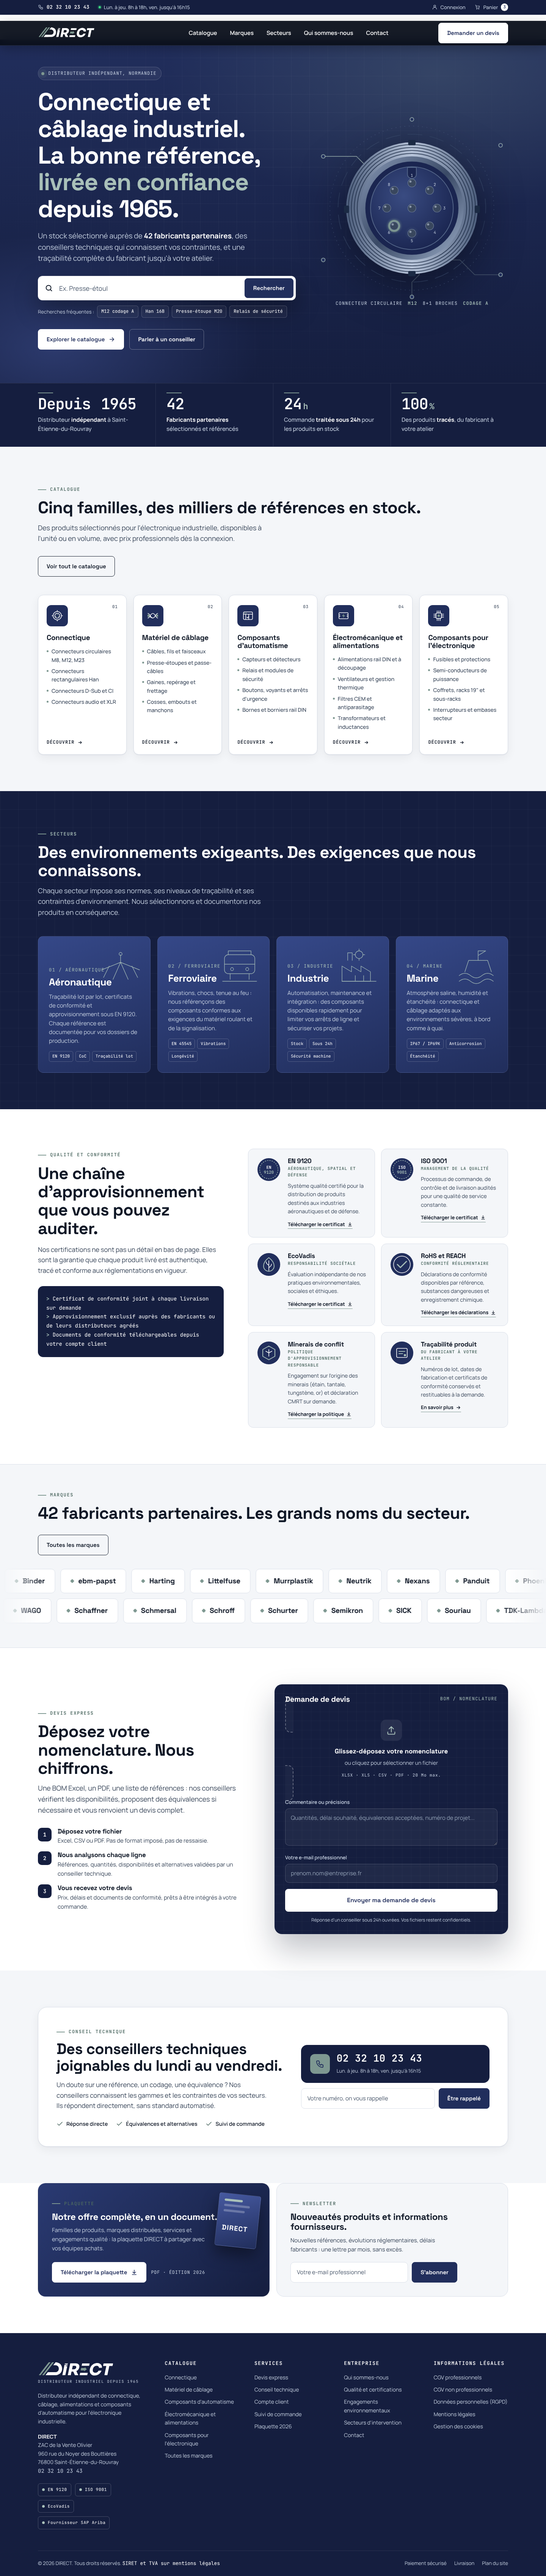
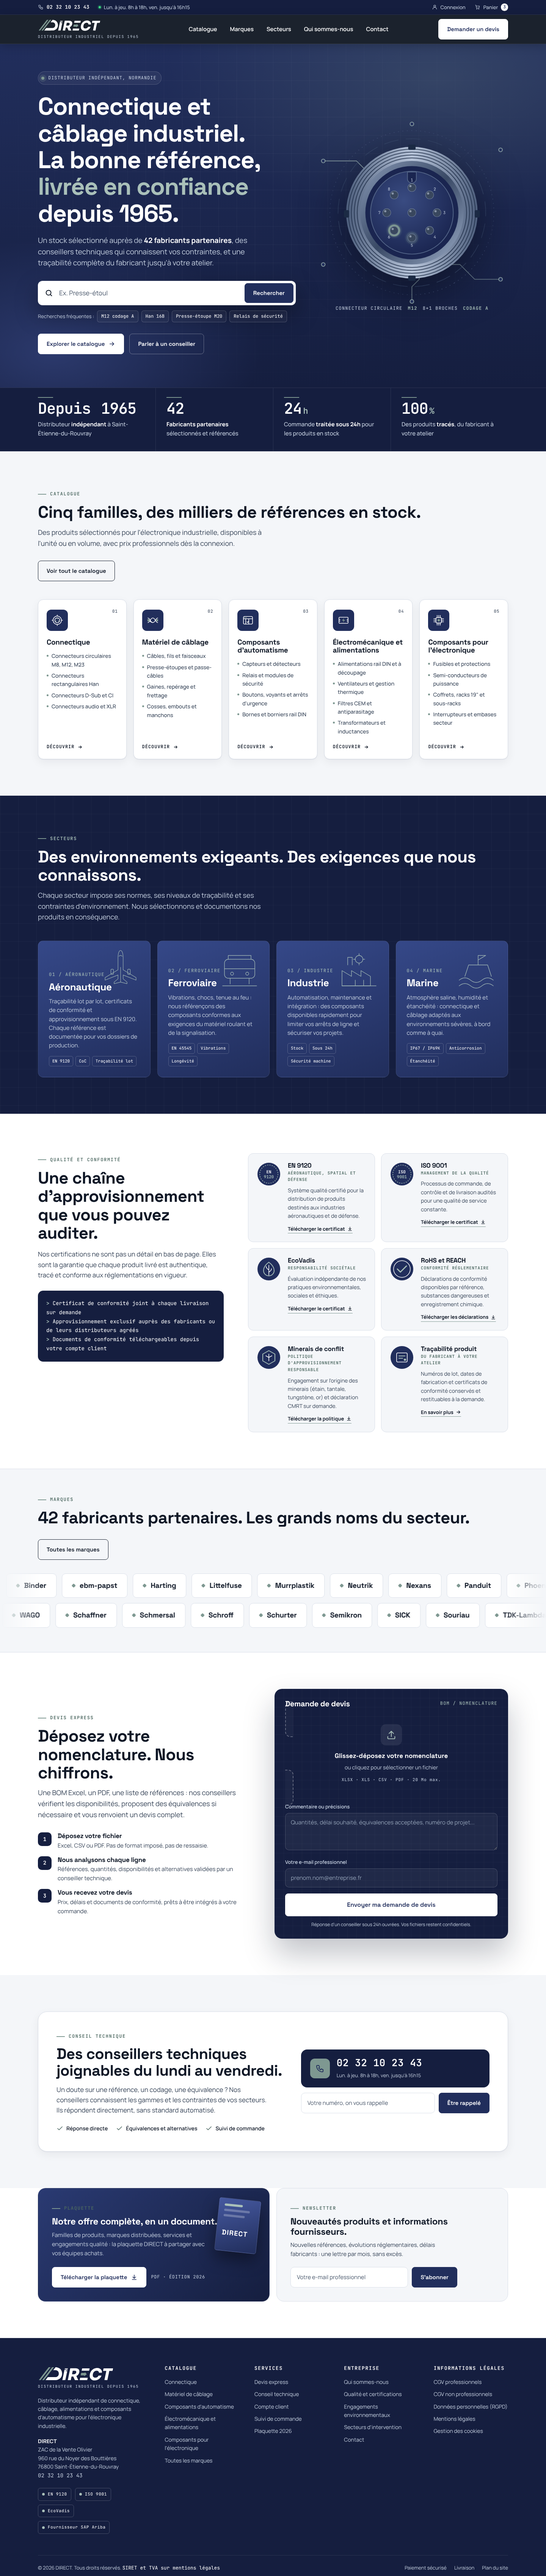
Secteur aéronautique : nouveau pictogramme avion en vue de dessus
Claude-Session: https://claude.ai/code/session_01CTckKYquxrzJf31rkvauVz

diff --git a/index.html b/index.html
@@ -943,7 +943,16 @@ svg { display: block; }
 
     <div class="sector-grid">
       <article class="sector reveal">
-        <div class="sector-art"><svg viewBox="0 0 120 120"><path d="M10 70 60 50l50 20M60 50V30M40 95l20-45 20 45M30 60l-15 30M90 60l15 30"/><circle cx="60" cy="28" r="4"/></svg></div>
+        <div class="sector-art"><svg viewBox="0 0 120 120">
+          <!-- Avion de ligne en vue de dessus : fuselage, ailes en flèche, réacteurs, empennage -->
+          <g transform="translate(9 0) scale(0.85)">
+            <path d="M60 8c5 0 8 10 8 24v36l40 24v8L68 84v12l12 10v5L60 106l-20 5v-5l12-10V84l-40 16v-8l40-24V32c0-14 3-24 8-24z"/>
+            <path d="M55 26q5-5 10 0"/>
+            <path d="M60 60v46"/>
+            <rect x="30" y="66" width="8" height="16" rx="3"/>
+            <rect x="82" y="66" width="8" height="16" rx="3"/>
+          </g>
+        </svg></div>
         <span class="sector-num mono">01 / AÉRONAUTIQUE</span>
         <h3>Aéronautique</h3>
         <p>Traçabilité lot par lot, certificats de conformité et approvisionnement sous EN 9120. Chaque référence est documentée pour vos dossiers de production.</p>
